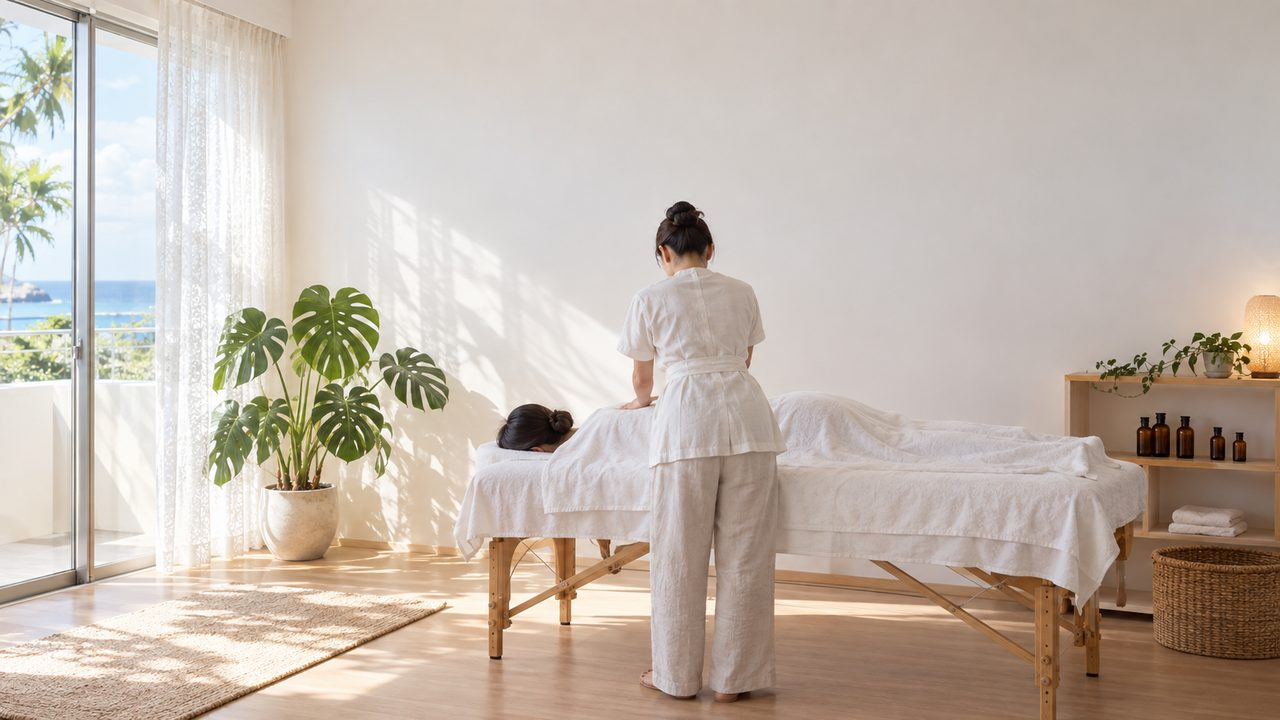
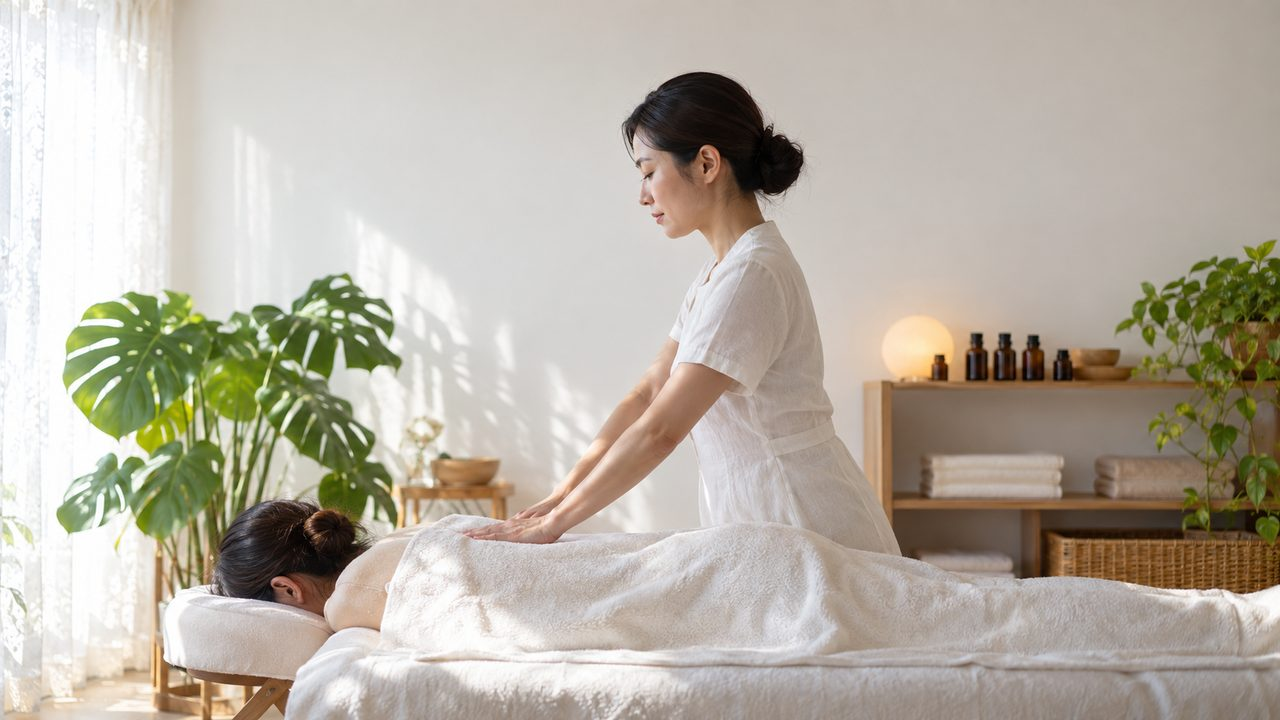
holistic salon KAFUU: 撮影指示書ページを簡素化（優先度表記・お子さま連れ節・見下ろし角度を削除、P-3横顔・P-5肩甲骨の写真を更新）

diff --git a/kafuu-shooting-guide.html b/kafuu-shooting-guide.html
@@ -78,11 +78,11 @@
 <section>
   <h2>★河上様のご出演カット<span class="sub">「顔なしOK」＝完全に映さない／「遠めOK」＝顔が映ってもアップにしない、両方使えます</span></h2>
 
-  <h3 style="margin-top:22px;">顔なしでOK（最優先）</h3>
+  <h3 style="margin-top:22px;">顔なしでOK</h3>
   <div class="grid">
 
     <div class="card face">
-      <div class="tag">P-1 優先</div>
+      <div class="tag">P-1</div>
       <h3>肩〜背中</h3>
       <div class="diagram"><img src="kafuu-shoot/p1.jpg" alt="施術中の手元の参考イメージ" loading="lazy"><span class="caption">イメージ例（AI生成）</span></div>
       <div class="angle-label">真横 or 斜め上45度・見下ろし</div>
@@ -90,7 +90,7 @@
     </div>
 
     <div class="card face">
-      <div class="tag">P-2 優先</div>
+      <div class="tag">P-2</div>
       <h3>アロマを選ぶ手元</h3>
       <div class="diagram"><img src="kafuu-shoot/p2.jpg" alt="アロマを選ぶ手元の参考イメージ" loading="lazy"><span class="caption">イメージ例（AI生成）</span></div>
       <div class="angle-label">近づいて手元アップ</div>
@@ -98,23 +98,23 @@
     </div>
 
     <div class="card face">
-      <div class="tag">P-4 優先</div>
+      <div class="tag">P-4</div>
       <h3>シーツを整える手元／後ろ姿</h3>
       <div class="diagram"><img src="kafuu-shoot/p4.jpg" alt="シーツを整える手元の参考イメージ" loading="lazy"><span class="caption">イメージ例（AI生成）</span></div>
       <div class="angle-label">真上見下ろし接写 / 斜め後方</div>
       <div class="desc">シーツの角を真上から接写。または後ろ姿でシーツを整える動作を斜め後方・中距離で（後頭部の髪だけ映る程度）。<div class="src">出典: 動画2</div></div>
     </div>
 
-    <div class="card face textonly">
-      <div class="tag">P-5 余裕あれば</div>
+    <div class="card face">
+      <div class="tag">P-5</div>
       <h3>肩甲骨まわり</h3>
-      <div class="diagram"><span>写真は準備中です<br>P-1と同じ「真横・タオルの上から」の応用です</span></div>
+      <div class="diagram"><img src="kafuu-shoot/p5.jpg" alt="肩甲骨まわりの参考イメージ" loading="lazy"><span class="caption">イメージ例（AI生成）</span></div>
       <div class="angle-label">真横 or 斜め上、手のひら全体</div>
-      <div class="desc">肩甲骨のあたりに両手を添えて。P-1の技法をこの部位に応用したものです。<div class="src">出典: 動画3・4</div></div>
+      <div class="desc">肩甲骨のあたりに両手を添えて。<div class="src">出典: 動画3・4</div></div>
     </div>
 
     <div class="card face priority">
-      <div class="tag">P-6 優先</div>
+      <div class="tag">P-6</div>
       <h3>足〜ふくらはぎ</h3>
       <div class="diagram"><img src="kafuu-shoot/p6.jpg" alt="足〜ふくらはぎの施術の参考イメージ" loading="lazy"><span class="caption">イメージ例（AI生成）</span></div>
       <div class="angle-label">真横・足元くらいの低い位置</div>
@@ -122,7 +122,7 @@
     </div>
 
     <div class="card face textonly">
-      <div class="tag">P-7 余裕あれば</div>
+      <div class="tag">P-7</div>
       <h3>鎖骨〜デコルテ</h3>
       <div class="diagram"><span>写真は準備中です</span></div>
       <div class="angle-label">斜め上45度から見下ろして接写</div>
@@ -135,11 +135,11 @@
   <div class="grid">
 
     <div class="card face">
-      <div class="tag">P-3 余裕あれば</div>
+      <div class="tag">P-3</div>
       <h3>施術中の横顔</h3>
-      <div class="diagram"><img src="kafuu-shoot/p3.jpg" alt="施術中の距離を取った参考イメージ" loading="lazy"><span class="caption">イメージ例（AI生成）</span></div>
-      <div class="angle-label">背面〜斜め後ろ・距離を取る</div>
-      <div class="desc">カメラは<b>遠め</b>に。正面や近距離のアップは撮らない、この写真くらいの距離感で大丈夫です。</div>
+      <div class="diagram"><img src="kafuu-shoot/p3.jpg" alt="施術中の横顔がしっかり映る参考イメージ" loading="lazy"><span class="caption">イメージ例（AI生成）</span></div>
+      <div class="angle-label">真横から・横顔がしっかり映るように</div>
+      <div class="desc">斜め後ろではなく<b>真横から</b>。少し距離を取り、正面や近距離のアップにはしないでください。</div>
     </div>
 
     <div class="card face">
@@ -154,7 +154,7 @@
 </section>
 
 <section>
-  <h2>A. サロンの雰囲気カット<span class="sub">優先度★★★</span></h2>
+  <h2>A. サロンの雰囲気カット</h2>
   <div class="grid">
 
     <div class="card priority">
@@ -199,14 +199,6 @@
 
     <div class="card">
       <div class="tag">A-6</div>
-      <h3>施術ベッドを見下ろす角度</h3>
-      <div class="diagram"><img src="kafuu-shoot/a6.jpg" alt="施術ベッドを見下ろす参考イメージ" loading="lazy"><span class="caption">イメージ例（AI生成）</span></div>
-      <div class="angle-label">可能なら高い位置から見下ろして</div>
-      <div class="desc">脚立や椅子の上など、少し高い位置からベッド全体を。難しければ無理はしなくて大丈夫です。<div class="src">出典: 動画1</div></div>
-    </div>
-
-    <div class="card">
-      <div class="tag">A-7</div>
       <h3>部屋全体＋観葉植物＋アート</h3>
       <div class="diagram"><img src="kafuu-shoot/a7.jpg" alt="観葉植物とアートフレームのある部屋全体の参考イメージ" loading="lazy"><span class="caption">イメージ例（AI生成）</span></div>
       <div class="angle-label">正面から引き・人物なし</div>
@@ -215,39 +207,7 @@
 
   </div>
   <div class="note">参考動画の中には建物の外観・入口のカットもありましたが、自宅兼サロンのため<b>外観の撮影は今回不要です</b>。店内のカットだけで十分です。</div>
-  <div class="note">ご指定いただいたYouTube動画は、ランプ等を効かせた<b>暖色系の照明</b>が特徴でした。「一般的なリラクゼーションより明るい店内」というご希望とは少し方向が違うため、<b>A-1〜A-4・A-7の自然光を基本に、P-8のような場面だけ暖色を効かせる</b>形で考えています。動画全体をこの暖色トーンに寄せたいご意向があれば、9/18の打ち合わせで教えてください。</div>
-</section>
-
-<section>
-  <h2>B. お子さま連れカット<span class="sub">優先度★★</span></h2>
-  <div class="grid">
-
-    <div class="card">
-      <div class="tag">B-1</div>
-      <h3>お子さまスペース</h3>
-      <div class="diagram"><img src="kafuu-shoot/b1.jpg" alt="お子さまスペースの参考イメージ" loading="lazy"><span class="caption">イメージ例（AI生成）</span></div>
-      <div class="angle-label">部屋全体が入る位置から</div>
-      <div class="desc">ラグ・おもちゃ・絵本などいつもの状態で。</div>
-    </div>
-
-    <div class="card">
-      <div class="tag">B-2</div>
-      <h3>施術後のお茶</h3>
-      <div class="diagram"><img src="kafuu-shoot/b2.jpg" alt="お茶のフラットレイの参考イメージ" loading="lazy"><span class="caption">イメージ例（AI生成）</span></div>
-      <div class="angle-label">真上から（フラットレイ）</div>
-      <div class="desc">テーブルに置いた状態を上から撮影。</div>
-    </div>
-
-  </div>
-</section>
-
-<section>
-  <h2>★ご連絡いただきたいこと<span class="sub">撮影前にお決めください</span></h2>
-  <div class="note">
-    <b>お客様役（施術を受ける役）を誰にするか決めて、教えてください。</b><br>
-    1. 娘さんに出ていただく　／　2. 別の方に出ていただく　／　3. 実際の方は使わず、こちらでAI生成の人物にする<br><br>
-    決まったら、撮影素材と一緒にその方が映った動画・写真を送ってください（<b>顔が映っていなくても大丈夫です</b>）。実際の方に出ていただく場合は、後日書面での撮影許可をこちらでご用意します。
-  </div>
+  <div class="note">ご指定いただいたYouTube動画は、ランプ等を効かせた<b>暖色系の照明</b>が特徴でした。「一般的なリラクゼーションより明るい店内」というご希望とは少し方向が違うため、<b>A-1〜A-6の自然光を基本に、P-8のような場面だけ暖色を効かせる</b>形で考えています。動画全体をこの暖色トーンに寄せたいご意向があれば、9/18の打ち合わせで教えてください。</div>
 </section>
 
 <section>
@@ -256,10 +216,6 @@
     <b>1. スマホは横持ち</b>（縦だと動画にしたとき左右が黒くなります）<br>
     <b>2. 昼間、カーテンを開けて自然光で</b>（部屋の電気だけだと暗く写ります）<br>
     <b>3. 1カット5秒以上、スマホを固定して止めて撮る</b>（歩きながら・手ぶれは使えません。棚や台に置くだけでも大丈夫です）
-  </div>
-  <div class="note">
-    <b>提出期限:</b> 2026-09-13ごろまで ／ <b>送付方法:</b> ギガファイル便（アップ方法は別途ご案内）／
-    <b>次回打ち合わせ:</b> 2026-09-18（金）9:30
   </div>
 </section>
 
